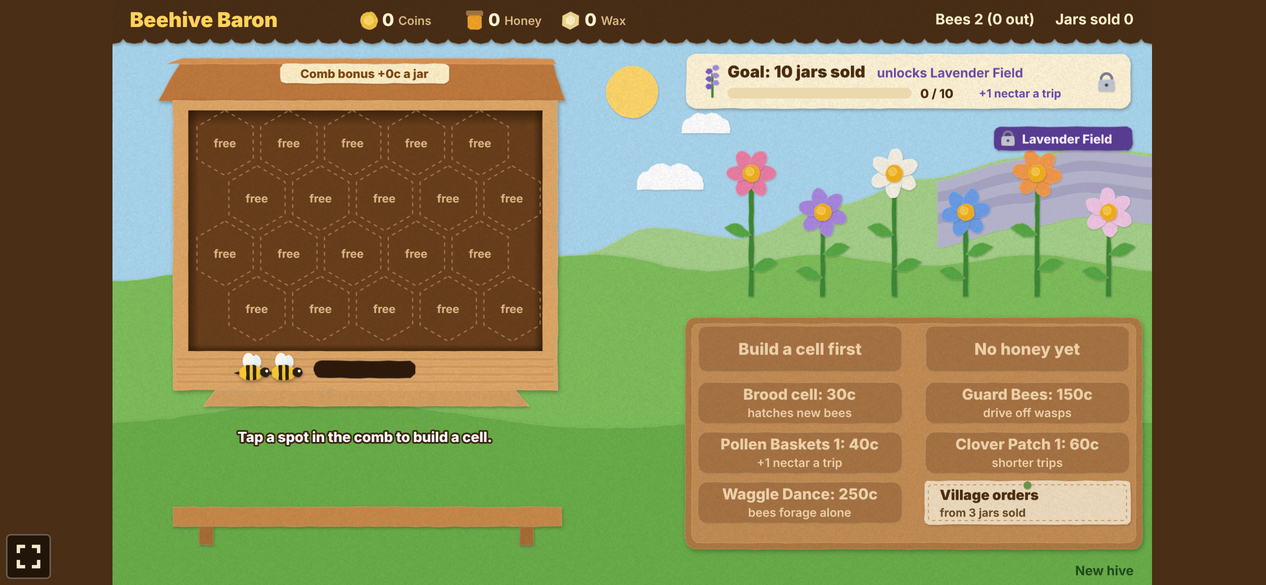
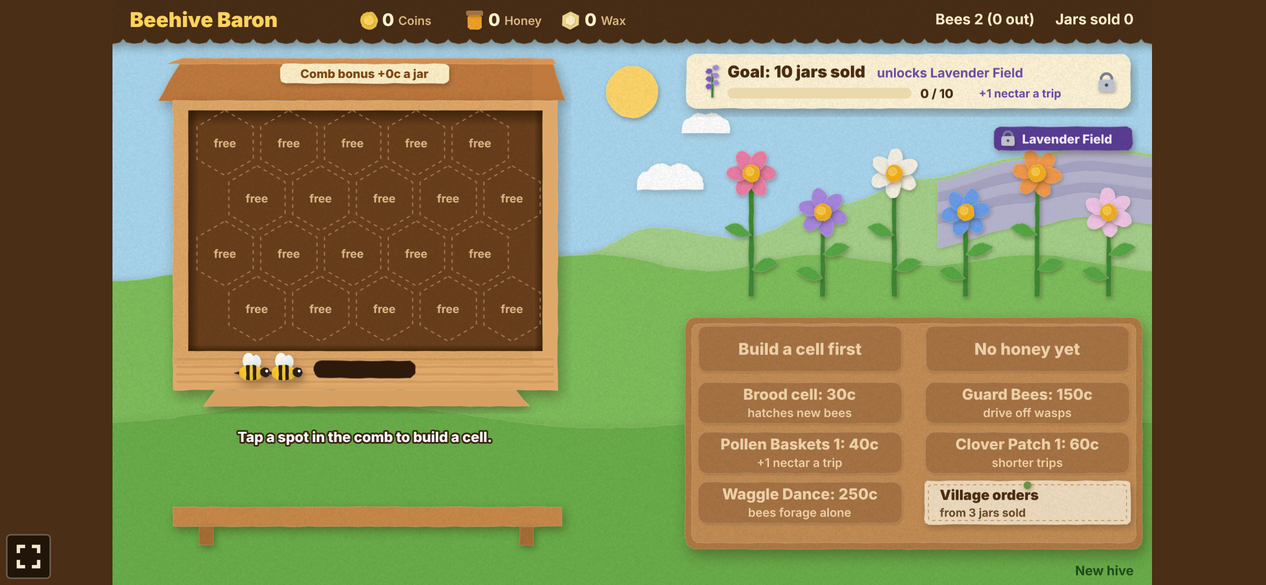
Beehive Baron: keep shadows at their size when painted sharper
Canvas shadows ignore the context's scale, so cut and the brood larva
multiply their blur and offset by the sketch's resolution, and the paper
grain only fills the sketch's own area, which speeds up startup on big
screens. Screenshots refreshed.

Created with Claude Opus 5.5 (low)

diff --git a/games/beehive-baron/src/art/paper.ts b/games/beehive-baron/src/art/paper.ts
@@ -69,6 +69,12 @@ export function sketch(w: number, h: number) {
 }
 
 /**
+ * Canvas pixels per game pixel of a sketch's context. Shadows ignore the context's scale, so their
+ * blur and offset are multiplied by it.
+ */
+export const resOfCtx = (ctx: Ctx) => resOf.get(ctx.canvas) ?? 1;
+
+/**
  * Adds a sketch's canvas as the texture `key`, replacing any texture of that name. The texture
  * shows at the sketch's size in game pixels however many pixels its canvas has: Phaser draws a
  * frame at its canvas size over the source's `resolution`, and the trim gives game objects the
@@ -168,12 +174,13 @@ export interface CutOptions {
 export function cut(ctx: Ctx, pts: Pt[], color: string, o: CutOptions = {}) {
   const p = wobble(pts, o.wob ?? 0.8);
   const d = o.depth ?? 3;
+  const res = resOfCtx(ctx);
   ctx.save();
   if (d > 0) {
     ctx.shadowColor = `rgba(42,26,8,${o.shadow ?? 0.38})`;
-    ctx.shadowBlur = d * 2.2;
-    ctx.shadowOffsetX = d * 0.5;
-    ctx.shadowOffsetY = d * 0.9;
+    ctx.shadowBlur = d * 2.2 * res;
+    ctx.shadowOffsetX = d * 0.5 * res;
+    ctx.shadowOffsetY = d * 0.9 * res;
   }
   trace(ctx, p);
   ctx.fillStyle = color;
@@ -185,7 +192,7 @@ export function cut(ctx: Ctx, pts: Pt[], color: string, o: CutOptions = {}) {
   ctx.globalCompositeOperation = 'multiply';
   ctx.globalAlpha = o.grain ?? 0.35;
   ctx.fillStyle = ctx.createPattern(grainTile(), 'repeat')!;
-  ctx.fillRect(0, 0, ctx.canvas.width, ctx.canvas.height);
+  ctx.fillRect(0, 0, ctx.canvas.width / res, ctx.canvas.height / res);
   ctx.restore();
   ctx.save();
   ctx.globalAlpha = 0.35;

diff --git a/games/beehive-baron/src/art/scenery.ts b/games/beehive-baron/src/art/scenery.ts
@@ -4,7 +4,7 @@ import { MEADOWS } from '../game/meadows';
 import { AWAY, BOARD, COMB, FAR_RIDGE, FLOWER_GROUND, GOAL, HIVE, MARKET, MEADOW_SPOTS, ORDER, PLAQUE, MEADOW_TAG, VIEW, farY, flowerSpot } from '../scenes/layout';
 import { KINDS } from '../game/honey';
 import { BROOD_CARD, CARD, KIND_CARD, MEADOW_CARD, NOTE_CARD, PETALS, WAX_CARD } from './palette';
-import { addTexture, circ, cut, hex, outline, rect, reseed, rr, sketch, smooth, type Pt } from './paper';
+import { addTexture, circ, cut, hex, outline, rect, reseed, resOfCtx, rr, sketch, smooth, type Pt } from './paper';
 
 // The meadow and the hive in cut paper: a sky sheet with a paper sun and clouds, layered hills with
 // the goal meadows on the far one, the hive box, petal-cut flowers, the honey jar, the comb cells
@@ -240,8 +240,8 @@ function bakeCells(scene: Phaser.Scene) {
     ctx.lineWidth = 5;
     ctx.lineCap = 'round';
     ctx.shadowColor = 'rgba(42,26,8,0.35)';
-    ctx.shadowBlur = 2;
-    ctx.shadowOffsetY = 1;
+    ctx.shadowBlur = 2 * resOfCtx(ctx);
+    ctx.shadowOffsetY = resOfCtx(ctx);
     ctx.beginPath();
     ctx.arc(c, c, 7, Math.PI * 0.35, Math.PI * 1.75);
     ctx.stroke();

diff --git a/games/beehive-baron/AGENTS.md b/games/beehive-baron/AGENTS.md
@@ -224,6 +224,8 @@ market in `src/game/honey.ts`; raid timings in `src/game/wasps.ts`; order number
 - Textures are painted at `sharpRes` through `sketch`, so the cut-paper art is as sharp as text.
   Read a texture's size from its frame's `realWidth`/`realHeight` (game pixels), never from
   `getSourceImage()` (canvas pixels).
+- Canvas shadows ignore the context's scale, so `cut` and any hand-set `shadowBlur` or
+  `shadowOffset` multiply them by `resOfCtx(ctx)`.
 - `e2e/screens.spec.ts` at the root opens the game on two phones, a tablet, a laptop and a 4K
   screen; an upright phone shows the shared hint to turn it.
 
